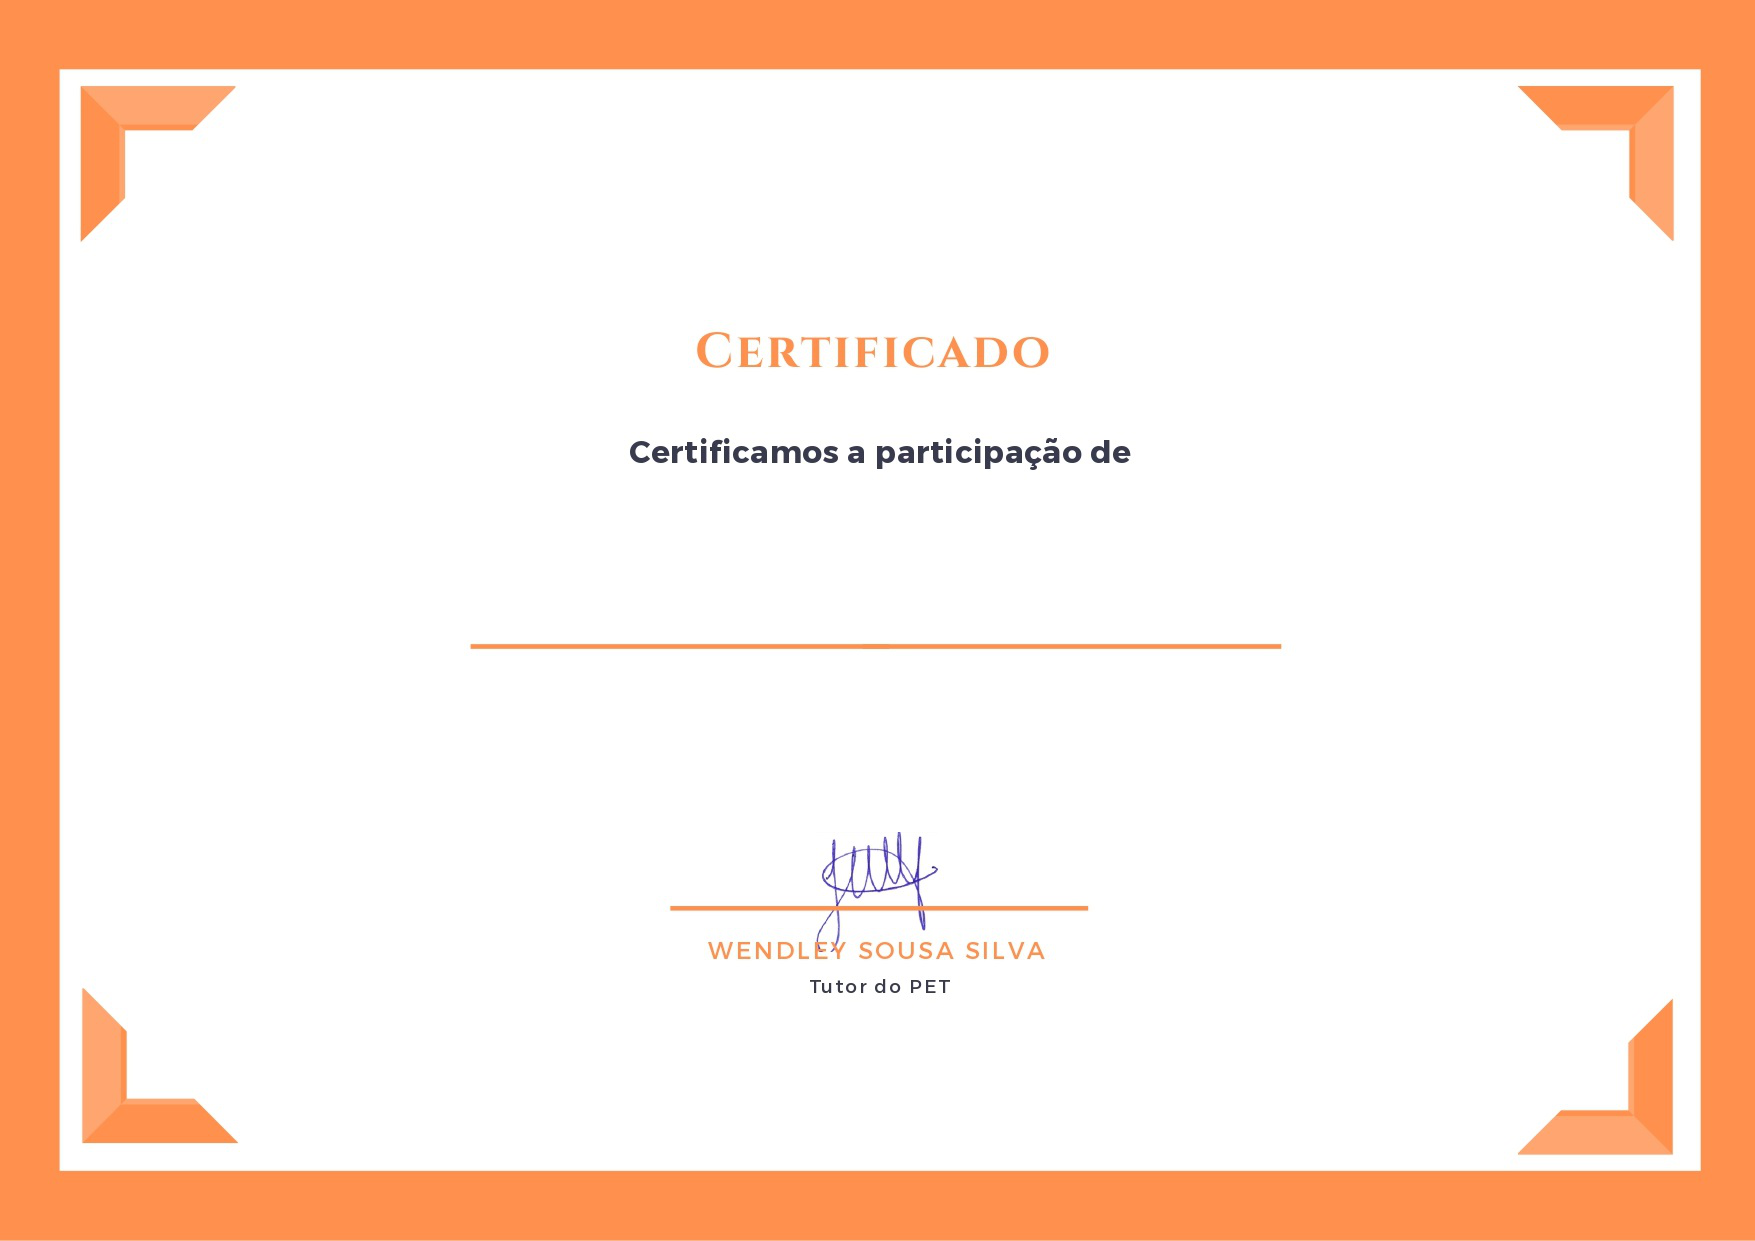
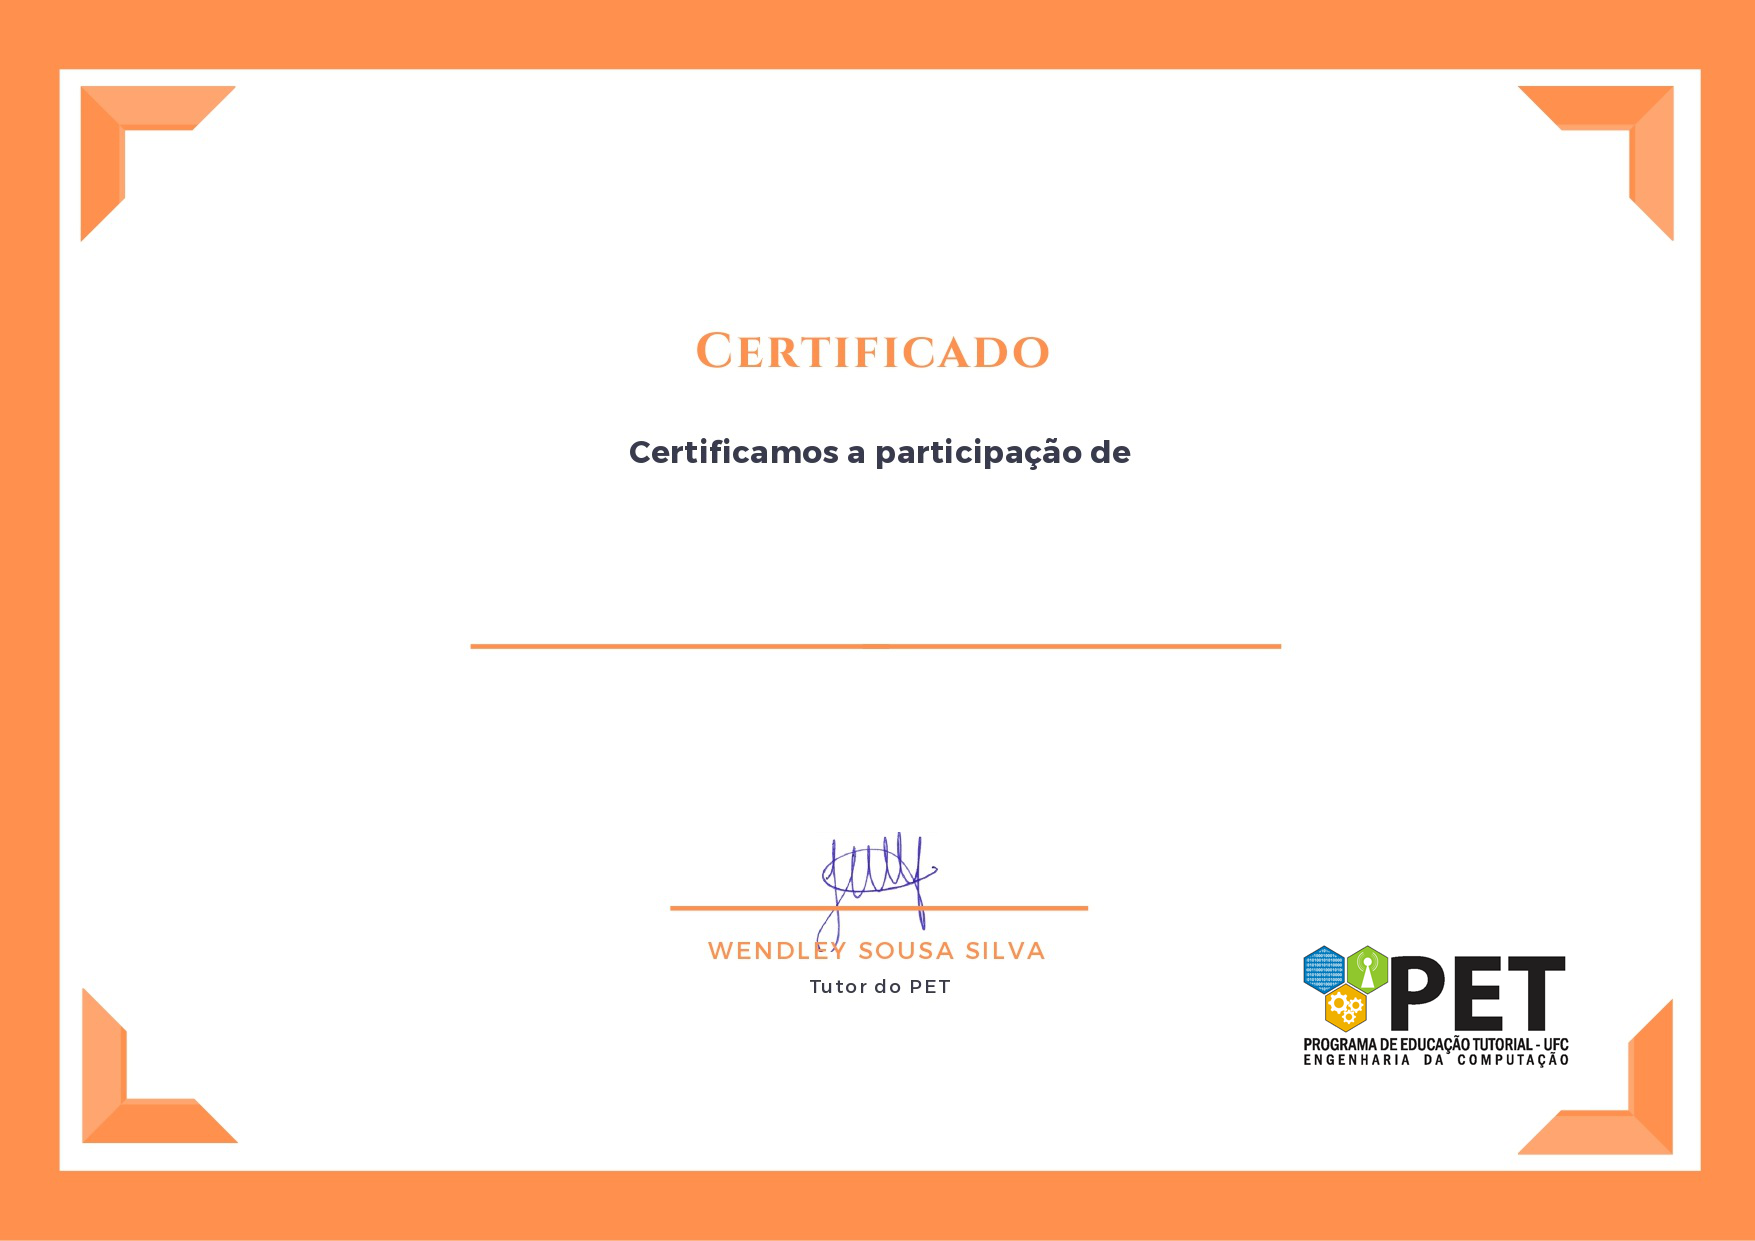
feat: e2d certificate

Changed region(s): [[0.7385, 0.7655, 0.8923, 0.8574]]

diff --git a/src/pages/SearchCertificate/index.js b/src/pages/SearchCertificate/index.js
@@ -62,6 +62,10 @@ export function SearchCertificate() {
       type: 'first_talk_circle',
       backgroundImage: '../files/images/bg_certificates/model_palesta_comp.png',
     },
+    {
+      type: 'event_e2d',
+      backgroundImage: '../files/images/bg_certificates/model_palesta_e2d.png',
+    },
   ]);
 
   const handleChange = (e) => {
@@ -171,6 +175,10 @@ export function SearchCertificate() {
     )
       return 'first_talk_circle';
 
+    if (auxUserDataPrint?.title?.toLowerCase().indexOf('[e2d]') > -1) {
+      return 'event_e2d';
+    }
+
     return auxUserDataPrint?.certificate_type;
   }, []);
 
@@ -242,6 +250,11 @@ export function SearchCertificate() {
 
   const eventVerifyFirstTalkCircle = useCallback((dataEventType) => {
     if (dataEventType === 'first_talk_circle') return true;
+    return false;
+  }, []);
+
+  const eventVerifyE2D = useCallback((dataEventType) => {
+    if (dataEventType === 'event_e2d') return true;
     return false;
   }, []);
 
@@ -362,9 +375,10 @@ export function SearchCertificate() {
           dataCertificate={selectBackgroundImage(
             selectCertificateType(dataToPrint),
           )}
-          eventVerifyFirstTalkCircle={eventVerifyFirstTalkCircle(
-            dataToPrint.certificate_type,
-          )}
+          eventVerifyFirstTalkCircle={
+            eventVerifyFirstTalkCircle(dataToPrint.certificate_type) ||
+            eventVerifyE2D(dataToPrint.certificate_type)
+          }
           id="container"
         >
           <div className="div__name">
@@ -375,6 +389,13 @@ export function SearchCertificate() {
             <div className="div__content_center_text">
               Na palestra <strong>{dataToPrint.title}</strong> do evento "I
               Ciclo de Palest ras" promovido pelo grupo PET-CEC.
+            </div>
+          ) : eventVerifyE2D(dataToPrint.certificate_type) ? (
+            <div className="div__content_center_text">
+              participou da palestra <strong>{dataToPrint.title}</strong> no{' '}
+              {utilFormatedDate(dataToPrint.start_date, dataToPrint.end_date)},
+              organizada pelo <strong>E2D - Engineering Two Days</strong>, com
+              carga horária de <strong>2 horas</strong>.
             </div>
           ) : (
             <div className="div__content_center_text">
@@ -399,7 +420,10 @@ export function SearchCertificate() {
               , {dataToPrint.location}
             </strong>
           </div>
-          {!eventVerifyFirstTalkCircle(dataToPrint.certificate_type) && (
+          {!(
+            eventVerifyFirstTalkCircle(dataToPrint.certificate_type) ||
+            eventVerifyE2D(dataToPrint.certificate_type)
+          ) && (
             <div className="div__footer">
               <div className="div__teacher">
                 <img

diff --git a/src/App.js b/src/App.js
@@ -22,7 +22,6 @@ import ColorThief from '../node_modules/colorthief/dist/color-thief.mjs';
 import Color, { Palette, usePalette } from 'color-thief-react';
 import { Loader } from './components/Loader';
 import { SearchCertificate } from './pages/SearchCertificate';
-import { NewCertificate } from './pages/NewCertificate';
 
 function Alert(props) {
   return <MuiAlert elevation={6} variant="filled" {...props} />;
@@ -32,7 +31,6 @@ function App() {
   return (
     <BrowserRouter>
       <Routes>
-        <Route path="/novo-certificado" element={<NewCertificate />} />
         <Route path="/certificado" element={<SearchCertificate />} />
         <Route path="/" element={<PrintCredential />} />
       </Routes>
